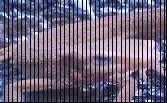
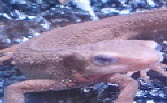
Q.29. アフィン変換(拡大縮小)#2

diff --git a/Question_21_30/my_answer_29.py b/Question_21_30/my_answer_29.py
@@ -1,8 +1,11 @@
 import cv2
 import numpy as np
 
-img = cv2.imread("imori.jpg").astype(np.float)
-H, W, C = img.shape
+img_ = cv2.imread("imori.jpg").astype(np.float)
+H, W, C = img_.shape
+
+img = np.zeros((H+2, W+2, C), dtype=np.float)
+img[1:H+1, 1:W+1] = img_
 
 a = 1.3
 b = 0
@@ -11,38 +14,56 @@ d = 0.8
 tx = 0
 ty = 0
 
+A = np.array([[a, b, tx],
+              [c, d, ty],
+              [0, 0,  1]])
+A_inv = np.linalg.inv(A)
+
 H_new = int(np.ceil(H*d))
 W_new = int(np.ceil(W*a))
 
-print(H_new)
-print(W_new)
-
-y = np.arange(H).repeat(W).reshape(W, -1)
-x = np.tile(np.arange(W), (H, 1))
+x_new = np.tile(np.arange(W_new), (H_new, 1))
+y_new = np.arange(H_new).repeat(W_new).reshape(H_new, -1)
 
 out = np.zeros((H_new+1, W_new+1, C), dtype=np.float)
 
-x_new = a * x + b * y + tx
-y_new = c * x + d * y + ty
+x = A_inv[0][0] * x_new + A_inv[0][1] * y_new + A_inv[0][2] + 1
+y = A_inv[1][0] * x_new + A_inv[1][1] * y_new + A_inv[1][2] + 1
 
 x_new = np.minimum(np.maximum(x_new, 0), W_new).astype(np.int)
 y_new = np.minimum(np.maximum(y_new, 0), H_new).astype(np.int)
+x = np.minimum(np.maximum(x, 0), W+1).astype(np.int)
+y = np.minimum(np.maximum(y, 0), H+1).astype(np.int)
 
 out[y_new, x_new] = img[y, x]
 out = out[:H_new, :W_new]
-
 cv2.imwrite("my_answer_29_1.jpg", out.astype(np.uint8))
+
+#----------
 
 tx = 30
 ty = -30
 
+A = np.array([[a, b, tx],
+              [c, d, ty],
+              [0, 0,  1]])
+A_inv = np.linalg.inv(A)
+
+H_new = int(np.ceil(H*d))
+W_new = int(np.ceil(W*a))
+
+x_new = np.tile(np.arange(W_new), (H_new, 1))
+y_new = np.arange(H_new).repeat(W_new).reshape(H_new, -1)
+
 out2 = np.zeros((H_new+1, W_new+1, C), dtype=np.float)
 
-x_new = a * x + b * y + tx
-y_new = c * x + d * y + ty
+x = A_inv[0][0] * x_new + A_inv[0][1] * y_new + A_inv[0][2] + 1
+y = A_inv[1][0] * x_new + A_inv[1][1] * y_new + A_inv[1][2] + 1
 
 x_new = np.minimum(np.maximum(x_new, 0), W_new).astype(np.int)
 y_new = np.minimum(np.maximum(y_new, 0), H_new).astype(np.int)
+x = np.minimum(np.maximum(x, 0), W+1).astype(np.int)
+y = np.minimum(np.maximum(y, 0), H+1).astype(np.int)
 
 out2[y_new, x_new] = img[y, x]
 out2 = out2[:H_new, :W_new]
